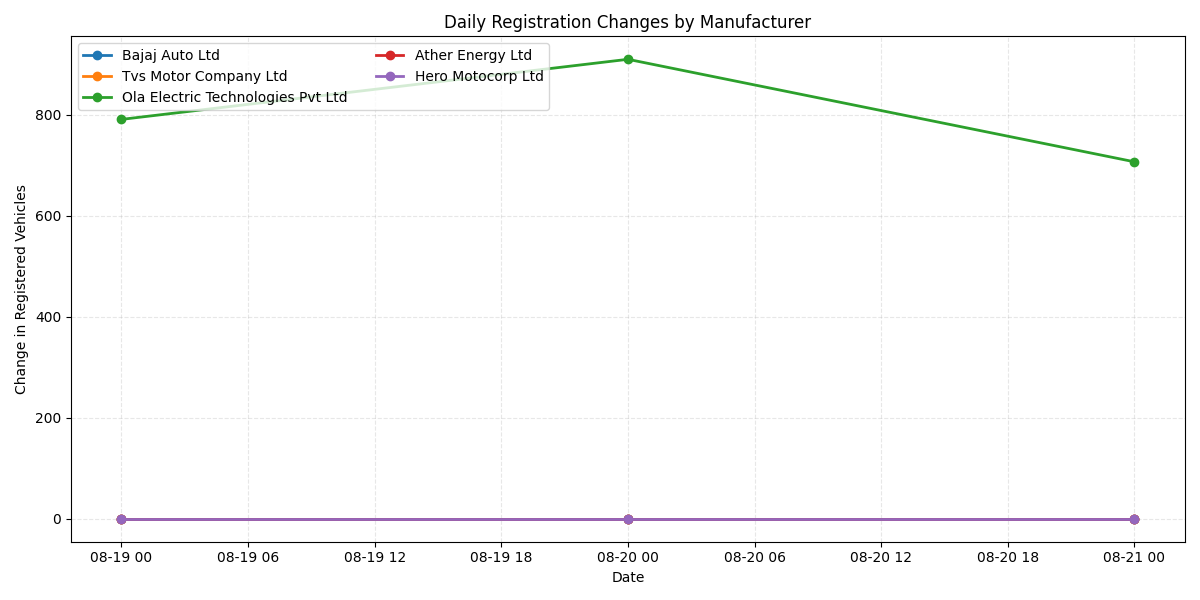
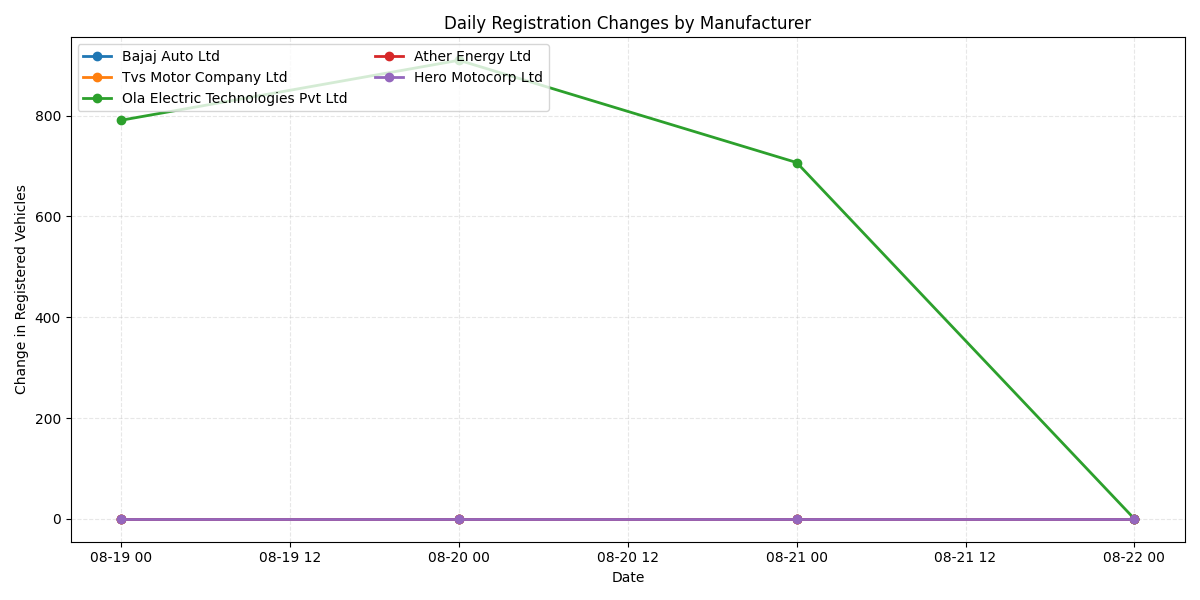
Automated data/docs update Sat Aug 23 04:41:57 UTC 2025

diff --git a/docs/monthly_changes.html b/docs/monthly_changes.html
@@ -2,6 +2,6 @@
 <head><meta charset="utf-8" /></head>
 <body>
     <div>                        <script type="text/javascript">window.PlotlyConfig = {MathJaxConfig: 'local'};</script>
[2 lines of base64/hex data omitted]
 </body>
 </html>

diff --git a/docs/daily_changes.html b/docs/daily_changes.html
@@ -2,6 +2,6 @@
 <head><meta charset="utf-8" /></head>
 <body>
     <div>                        <script type="text/javascript">window.PlotlyConfig = {MathJaxConfig: 'local'};</script>
-        <script charset="utf-8" src="https://cdn.plot.ly/plotly-3.1.0.min.js" integrity="sha256-Ei4740bWZhaUTQuD6q9yQlgVCMPBz6CZWhevDYPv93A=" crossorigin="anonymous"></script>                <div id="94f2916d-dba3-4cae-affe-7ff9773ca47b" class="plotly-graph-div" style="height:100%; width:100%;"></div>            <script type="text/javascript">                window.PLOTLYENV=window.PLOTLYENV || {};                                if (document.getElementById("94f2916d-dba3-4cae-affe-7ff9773ca47b")) {                    Plotly.newPlot(                        "94f2916d-dba3-4cae-affe-7ff9773ca47b",                        [{"customdata":{"dtype":"f8","bdata":"AAAAAAAA+H8AAAAAAAD4fwAAAAAAAPh\u002f"},"hovertemplate":"%{x|%Y-%m-%d}\u003cbr\u003e%{fullData.name}: \u0394 %{y} (%{customdata}%)\u003cextra\u003e\u003c\u002fextra\u003e","mode":"lines+markers","name":"Bajaj Auto Ltd","x":["2025-08-19T00:00:00.000000000","2025-08-20T00:00:00.000000000","2025-08-21T00:00:00.000000000"],"y":{"dtype":"i1","bdata":"AAAA"},"type":"scatter"},{"customdata":{"dtype":"f8","bdata":"AAAAAAAA+H8AAAAAAAD4fwAAAAAAAPh\u002f"},"hovertemplate":"%{x|%Y-%m-%d}\u003cbr\u003e%{fullData.name}: \u0394 %{y} (%{customdata}%)\u003cextra\u003e\u003c\u002fextra\u003e","mode":"lines+markers","name":"Tvs Motor Company Ltd","x":["2025-08-19T00:00:00.000000000","2025-08-20T00:00:00.000000000","2025-08-21T00:00:00.000000000"],"y":{"dtype":"i1","bdata":"AAAA"},"type":"scatter"},{"customdata":{"dtype":"f8","bdata":"AAAAAAAA+H8UrkfhehQuQI\u002fC9ShcTzbA"},"hovertemplate":"%{x|%Y-%m-%d}\u003cbr\u003e%{fullData.name}: \u0394 %{y} (%{customdata}%)\u003cextra\u003e\u003c\u002fextra\u003e","mode":"lines+markers","name":"Ola Electric Technologies Pvt Ltd","x":["2025-08-19T00:00:00.000000000","2025-08-20T00:00:00.000000000","2025-08-21T00:00:00.000000000"],"y":{"dtype":"f8","bdata":"AAAAAAC4iEAAAAAAAHCMQAAAAAAAGIZA"},"type":"scatter"},{"customdata":{"dtype":"f8","bdata":"AAAAAAAA+H8AAAAAAAD4fwAAAAAAAPh\u002f"},"hovertemplate":"%{x|%Y-%m-%d}\u003cbr\u003e%{fullData.name}: \u0394 %{y} (%{customdata}%)\u003cextra\u003e\u003c\u002fextra\u003e","mode":"lines+markers","name":"Ather Energy Ltd","x":["2025-08-19T00:00:00.000000000","2025-08-20T00:00:00.000000000","2025-08-21T00:00:00.000000000"],"y":{"dtype":"i1","bdata":"AAAA"},"type":"scatter"},{"customdata":{"dtype":"f8","bdata":"AAAAAAAA+H8AAAAAAAD4fwAAAAAAAPh\u002f"},"hovertemplate":"%{x|%Y-%m-%d}\u003cbr\u003e%{fullData.name}: \u0394 %{y} (%{customdata}%)\u003cextra\u003e\u003c\u002fextra\u003e","mode":"lines+markers","name":"Hero Motocorp Ltd","x":["2025-08-19T00:00:00.000000000","2025-08-20T00:00:00.000000000","2025-08-21T00:00:00.000000000"],"y":{"dtype":"i1","bdata":"AAAA"},"type":"scatter"}],                        {"legend":{"orientation":"h","x":0,"xanchor":"left","y":1.02,"yanchor":"bottom"},"template":{"data":{"barpolar":[{"marker":{"line":{"color":"white","width":0.5},"pattern":{"fillmode":"overlay","size":10,"solidity":0.2}},"type":"barpolar"}],"bar":[{"error_x":{"color":"#2a3f5f"},"error_y":{"color":"#2a3f5f"},"marker":{"line":{"color":"white","width":0.5},"pattern":{"fillmode":"overlay","size":10,"solidity":0.2}},"type":"bar"}],"carpet":[{"aaxis":{"endlinecolor":"#2a3f5f","gridcolor":"#C8D4E3","linecolor":"#C8D4E3","minorgridcolor":"#C8D4E3","startlinecolor":"#2a3f5f"},"baxis":{"endlinecolor":"#2a3f5f","gridcolor":"#C8D4E3","linecolor":"#C8D4E3","minorgridcolor":"#C8D4E3","startlinecolor":"#2a3f5f"},"type":"carpet"}],"choropleth":[{"colorbar":{"outlinewidth":0,"ticks":""},"type":"choropleth"}],"contourcarpet":[{"colorbar":{"outlinewidth":0,"ticks":""},"type":"contourcarpet"}],"contour":[{"colorbar":{"outlinewidth":0,"ticks":""},"colorscale":[[0.0,"#0d0887"],[0.1111111111111111,"#46039f"],[0.2222222222222222,"#7201a8"],[0.3333333333333333,"#9c179e"],[0.4444444444444444,"#bd3786"],[0.5555555555555556,"#d8576b"],[0.6666666666666666,"#ed7953"],[0.7777777777777778,"#fb9f3a"],[0.8888888888888888,"#fdca26"],[1.0,"#f0f921"]],"type":"contour"}],"heatmap":[{"colorbar":{"outlinewidth":0,"ticks":""},"colorscale":[[0.0,"#0d0887"],[0.1111111111111111,"#46039f"],[0.2222222222222222,"#7201a8"],[0.3333333333333333,"#9c179e"],[0.4444444444444444,"#bd3786"],[0.5555555555555556,"#d8576b"],[0.6666666666666666,"#ed7953"],[0.7777777777777778,"#fb9f3a"],[0.8888888888888888,"#fdca26"],[1.0,"#f0f921"]],"type":"heatmap"}],"histogram2dcontour":[{"colorbar":{"outlinewidth":0,"ticks":""},"colorscale":[[0.0,"#0d0887"],[0.1111111111111111,"#46039f"],[0.2222222222222222,"#7201a8"],[0.3333333333333333,"#9c179e"],[0.4444444444444444,"#bd3786"],[0.5555555555555556,"#d8576b"],[0.6666666666666666,"#ed7953"],[0.7777777777777778,"#fb9f3a"],[0.8888888888888888,"#fdca26"],[1.0,"#f0f921"]],"type":"histogram2dcontour"}],"histogram2d":[{"colorbar":{"outlinewidth":0,"ticks":""},"colorscale":[[0.0,"#0d0887"],[0.1111111111111111,"#46039f"],[0.2222222222222222,"#7201a8"],[0.3333333333333333,"#9c179e"],[0.4444444444444444,"#bd3786"],[0.5555555555555556,"#d8576b"],[0.6666666666666666,"#ed7953"],[0.7777777777777778,"#fb9f3a"],[0.8888888888888888,"#fdca26"],[1.0,"#f0f921"]],"type":"histogram2d"}],"histogram":[{"marker":{"pattern":{"fillmode":"overlay","size":10,"solidity":0.2}},"type":"histogram"}],"mesh3d":[{"colorbar":{"outlinewidth":0,"ticks":""},"type":"mesh3d"}],"parcoords":[{"line":{"colorbar":{"outlinewidth":0,"ticks":""}},"type":"parcoords"}],"pie":[{"automargin":true,"type":"pie"}],"scatter3d":[{"line":{"colorbar":{"outlinewidth":0,"ticks":""}},"marker":{"colorbar":{"outlinewidth":0,"ticks":""}},"type":"scatter3d"}],"scattercarpet":[{"marker":{"colorbar":{"outlinewidth":0,"ticks":""}},"type":"scattercarpet"}],"scattergeo":[{"marker":{"colorbar":{"outlinewidth":0,"ticks":""}},"type":"scattergeo"}],"scattergl":[{"marker":{"colorbar":{"outlinewidth":0,"ticks":""}},"type":"scattergl"}],"scattermapbox":[{"marker":{"colorbar":{"outlinewidth":0,"ticks":""}},"type":"scattermapbox"}],"scattermap":[{"marker":{"colorbar":{"outlinewidth":0,"ticks":""}},"type":"scattermap"}],"scatterpolargl":[{"marker":{"colorbar":{"outlinewidth":0,"ticks":""}},"type":"scatterpolargl"}],"scatterpolar":[{"marker":{"colorbar":{"outlinewidth":0,"ticks":""}},"type":"scatterpolar"}],"scatter":[{"fillpattern":{"fillmode":"overlay","size":10,"solidity":0.2},"type":"scatter"}],"scatterternary":[{"marker":{"colorbar":{"outlinewidth":0,"ticks":""}},"type":"scatterternary"}],"surface":[{"colorbar":{"outlinewidth":0,"ticks":""},"colorscale":[[0.0,"#0d0887"],[0.1111111111111111,"#46039f"],[0.2222222222222222,"#7201a8"],[0.3333333333333333,"#9c179e"],[0.4444444444444444,"#bd3786"],[0.5555555555555556,"#d8576b"],[0.6666666666666666,"#ed7953"],[0.7777777777777778,"#fb9f3a"],[0.8888888888888888,"#fdca26"],[1.0,"#f0f921"]],"type":"surface"}],"table":[{"cells":{"fill":{"color":"#EBF0F8"},"line":{"color":"white"}},"header":{"fill":{"color":"#C8D4E3"},"line":{"color":"white"}},"type":"table"}]},"layout":{"annotationdefaults":{"arrowcolor":"#2a3f5f","arrowhead":0,"arrowwidth":1},"autotypenumbers":"strict","coloraxis":{"colorbar":{"outlinewidth":0,"ticks":""}},"colorscale":{"diverging":[[0,"#8e0152"],[0.1,"#c51b7d"],[0.2,"#de77ae"],[0.3,"#f1b6da"],[0.4,"#fde0ef"],[0.5,"#f7f7f7"],[0.6,"#e6f5d0"],[0.7,"#b8e186"],[0.8,"#7fbc41"],[0.9,"#4d9221"],[1,"#276419"]],"sequential":[[0.0,"#0d0887"],[0.1111111111111111,"#46039f"],[0.2222222222222222,"#7201a8"],[0.3333333333333333,"#9c179e"],[0.4444444444444444,"#bd3786"],[0.5555555555555556,"#d8576b"],[0.6666666666666666,"#ed7953"],[0.7777777777777778,"#fb9f3a"],[0.8888888888888888,"#fdca26"],[1.0,"#f0f921"]],"sequentialminus":[[0.0,"#0d0887"],[0.1111111111111111,"#46039f"],[0.2222222222222222,"#7201a8"],[0.3333333333333333,"#9c179e"],[0.4444444444444444,"#bd3786"],[0.5555555555555556,"#d8576b"],[0.6666666666666666,"#ed7953"],[0.7777777777777778,"#fb9f3a"],[0.8888888888888888,"#fdca26"],[1.0,"#f0f921"]]},"colorway":["#636efa","#EF553B","#00cc96","#ab63fa","#FFA15A","#19d3f3","#FF6692","#B6E880","#FF97FF","#FECB52"],"font":{"color":"#2a3f5f"},"geo":{"bgcolor":"white","lakecolor":"white","landcolor":"white","showlakes":true,"showland":true,"subunitcolor":"#C8D4E3"},"hoverlabel":{"align":"left"},"hovermode":"closest","mapbox":{"style":"light"},"paper_bgcolor":"white","plot_bgcolor":"white","polar":{"angularaxis":{"gridcolor":"#EBF0F8","linecolor":"#EBF0F8","ticks":""},"bgcolor":"white","radialaxis":{"gridcolor":"#EBF0F8","linecolor":"#EBF0F8","ticks":""}},"scene":{"xaxis":{"backgroundcolor":"white","gridcolor":"#DFE8F3","gridwidth":2,"linecolor":"#EBF0F8","showbackground":true,"ticks":"","zerolinecolor":"#EBF0F8"},"yaxis":{"backgroundcolor":"white","gridcolor":"#DFE8F3","gridwidth":2,"linecolor":"#EBF0F8","showbackground":true,"ticks":"","zerolinecolor":"#EBF0F8"},"zaxis":{"backgroundcolor":"white","gridcolor":"#DFE8F3","gridwidth":2,"linecolor":"#EBF0F8","showbackground":true,"ticks":"","zerolinecolor":"#EBF0F8"}},"shapedefaults":{"line":{"color":"#2a3f5f"}},"ternary":{"aaxis":{"gridcolor":"#DFE8F3","linecolor":"#A2B1C6","ticks":""},"baxis":{"gridcolor":"#DFE8F3","linecolor":"#A2B1C6","ticks":""},"bgcolor":"white","caxis":{"gridcolor":"#DFE8F3","linecolor":"#A2B1C6","ticks":""}},"title":{"x":0.05},"xaxis":{"automargin":true,"gridcolor":"#EBF0F8","linecolor":"#EBF0F8","ticks":"","title":{"standoff":15},"zerolinecolor":"#EBF0F8","zerolinewidth":2},"yaxis":{"automargin":true,"gridcolor":"#EBF0F8","linecolor":"#EBF0F8","ticks":"","title":{"standoff":15},"zerolinecolor":"#EBF0F8","zerolinewidth":2}}},"title":{"text":"Daily Registration Changes by Manufacturer"},"xaxis":{"title":{"text":"Date"}},"yaxis":{"title":{"text":"Change in Registered Vehicles"}}},                        {"responsive": true}                    )                };            </script>        </div>
+        <script charset="utf-8" src="https://cdn.plot.ly/plotly-3.1.0.min.js" integrity="sha256-Ei4740bWZhaUTQuD6q9yQlgVCMPBz6CZWhevDYPv93A=" crossorigin="anonymous"></script>                <div id="7935b297-39f6-45e2-b514-853882d5448d" class="plotly-graph-div" style="height:100%; width:100%;"></div>            <script type="text/javascript">                window.PLOTLYENV=window.PLOTLYENV || {};                                if (document.getElementById("7935b297-39f6-45e2-b514-853882d5448d")) {                    Plotly.newPlot(                        "7935b297-39f6-45e2-b514-853882d5448d",                        [{"customdata":{"dtype":"f8","bdata":"AAAAAAAA+H8AAAAAAAD4\u002fwAAAAAAAPj\u002fAAAAAAAA+P8="},"hovertemplate":"%{x|%Y-%m-%d}\u003cbr\u003e%{fullData.name}: \u0394 %{y} (%{customdata}%)\u003cextra\u003e\u003c\u002fextra\u003e","mode":"lines+markers","name":"Bajaj Auto Ltd","x":["2025-08-19T00:00:00.000000000","2025-08-20T00:00:00.000000000","2025-08-21T00:00:00.000000000","2025-08-22T00:00:00.000000000"],"y":{"dtype":"i1","bdata":"AAAAAA=="},"type":"scatter"},{"customdata":{"dtype":"f8","bdata":"AAAAAAAA+H8AAAAAAAD4\u002fwAAAAAAAPj\u002fAAAAAAAA+P8="},"hovertemplate":"%{x|%Y-%m-%d}\u003cbr\u003e%{fullData.name}: \u0394 %{y} (%{customdata}%)\u003cextra\u003e\u003c\u002fextra\u003e","mode":"lines+markers","name":"Tvs Motor Company Ltd","x":["2025-08-19T00:00:00.000000000","2025-08-20T00:00:00.000000000","2025-08-21T00:00:00.000000000","2025-08-22T00:00:00.000000000"],"y":{"dtype":"i1","bdata":"AAAAAA=="},"type":"scatter"},{"customdata":{"dtype":"f8","bdata":"AAAAAAAA+H8UrkfhehQuQI\u002fC9ShcTzbAAAAAAAAAWcA="},"hovertemplate":"%{x|%Y-%m-%d}\u003cbr\u003e%{fullData.name}: \u0394 %{y} (%{customdata}%)\u003cextra\u003e\u003c\u002fextra\u003e","mode":"lines+markers","name":"Ola Electric Technologies Pvt Ltd","x":["2025-08-19T00:00:00.000000000","2025-08-20T00:00:00.000000000","2025-08-21T00:00:00.000000000","2025-08-22T00:00:00.000000000"],"y":{"dtype":"f8","bdata":"AAAAAAC4iEAAAAAAAHCMQAAAAAAAGIZAAAAAAAAAAAA="},"type":"scatter"},{"customdata":{"dtype":"f8","bdata":"AAAAAAAA+H8AAAAAAAD4\u002fwAAAAAAAPj\u002fAAAAAAAA+P8="},"hovertemplate":"%{x|%Y-%m-%d}\u003cbr\u003e%{fullData.name}: \u0394 %{y} (%{customdata}%)\u003cextra\u003e\u003c\u002fextra\u003e","mode":"lines+markers","name":"Ather Energy Ltd","x":["2025-08-19T00:00:00.000000000","2025-08-20T00:00:00.000000000","2025-08-21T00:00:00.000000000","2025-08-22T00:00:00.000000000"],"y":{"dtype":"i1","bdata":"AAAAAA=="},"type":"scatter"},{"customdata":{"dtype":"f8","bdata":"AAAAAAAA+H8AAAAAAAD4\u002fwAAAAAAAPj\u002fAAAAAAAA+P8="},"hovertemplate":"%{x|%Y-%m-%d}\u003cbr\u003e%{fullData.name}: \u0394 %{y} (%{customdata}%)\u003cextra\u003e\u003c\u002fextra\u003e","mode":"lines+markers","name":"Hero Motocorp Ltd","x":["2025-08-19T00:00:00.000000000","2025-08-20T00:00:00.000000000","2025-08-21T00:00:00.000000000","2025-08-22T00:00:00.000000000"],"y":{"dtype":"i1","bdata":"AAAAAA=="},"type":"scatter"}],                        {"legend":{"orientation":"h","x":0,"xanchor":"left","y":1.02,"yanchor":"bottom"},"template":{"data":{"barpolar":[{"marker":{"line":{"color":"white","width":0.5},"pattern":{"fillmode":"overlay","size":10,"solidity":0.2}},"type":"barpolar"}],"bar":[{"error_x":{"color":"#2a3f5f"},"error_y":{"color":"#2a3f5f"},"marker":{"line":{"color":"white","width":0.5},"pattern":{"fillmode":"overlay","size":10,"solidity":0.2}},"type":"bar"}],"carpet":[{"aaxis":{"endlinecolor":"#2a3f5f","gridcolor":"#C8D4E3","linecolor":"#C8D4E3","minorgridcolor":"#C8D4E3","startlinecolor":"#2a3f5f"},"baxis":{"endlinecolor":"#2a3f5f","gridcolor":"#C8D4E3","linecolor":"#C8D4E3","minorgridcolor":"#C8D4E3","startlinecolor":"#2a3f5f"},"type":"carpet"}],"choropleth":[{"colorbar":{"outlinewidth":0,"ticks":""},"type":"choropleth"}],"contourcarpet":[{"colorbar":{"outlinewidth":0,"ticks":""},"type":"contourcarpet"}],"contour":[{"colorbar":{"outlinewidth":0,"ticks":""},"colorscale":[[0.0,"#0d0887"],[0.1111111111111111,"#46039f"],[0.2222222222222222,"#7201a8"],[0.3333333333333333,"#9c179e"],[0.4444444444444444,"#bd3786"],[0.5555555555555556,"#d8576b"],[0.6666666666666666,"#ed7953"],[0.7777777777777778,"#fb9f3a"],[0.8888888888888888,"#fdca26"],[1.0,"#f0f921"]],"type":"contour"}],"heatmap":[{"colorbar":{"outlinewidth":0,"ticks":""},"colorscale":[[0.0,"#0d0887"],[0.1111111111111111,"#46039f"],[0.2222222222222222,"#7201a8"],[0.3333333333333333,"#9c179e"],[0.4444444444444444,"#bd3786"],[0.5555555555555556,"#d8576b"],[0.6666666666666666,"#ed7953"],[0.7777777777777778,"#fb9f3a"],[0.8888888888888888,"#fdca26"],[1.0,"#f0f921"]],"type":"heatmap"}],"histogram2dcontour":[{"colorbar":{"outlinewidth":0,"ticks":""},"colorscale":[[0.0,"#0d0887"],[0.1111111111111111,"#46039f"],[0.2222222222222222,"#7201a8"],[0.3333333333333333,"#9c179e"],[0.4444444444444444,"#bd3786"],[0.5555555555555556,"#d8576b"],[0.6666666666666666,"#ed7953"],[0.7777777777777778,"#fb9f3a"],[0.8888888888888888,"#fdca26"],[1.0,"#f0f921"]],"type":"histogram2dcontour"}],"histogram2d":[{"colorbar":{"outlinewidth":0,"ticks":""},"colorscale":[[0.0,"#0d0887"],[0.1111111111111111,"#46039f"],[0.2222222222222222,"#7201a8"],[0.3333333333333333,"#9c179e"],[0.4444444444444444,"#bd3786"],[0.5555555555555556,"#d8576b"],[0.6666666666666666,"#ed7953"],[0.7777777777777778,"#fb9f3a"],[0.8888888888888888,"#fdca26"],[1.0,"#f0f921"]],"type":"histogram2d"}],"histogram":[{"marker":{"pattern":{"fillmode":"overlay","size":10,"solidity":0.2}},"type":"histogram"}],"mesh3d":[{"colorbar":{"outlinewidth":0,"ticks":""},"type":"mesh3d"}],"parcoords":[{"line":{"colorbar":{"outlinewidth":0,"ticks":""}},"type":"parcoords"}],"pie":[{"automargin":true,"type":"pie"}],"scatter3d":[{"line":{"colorbar":{"outlinewidth":0,"ticks":""}},"marker":{"colorbar":{"outlinewidth":0,"ticks":""}},"type":"scatter3d"}],"scattercarpet":[{"marker":{"colorbar":{"outlinewidth":0,"ticks":""}},"type":"scattercarpet"}],"scattergeo":[{"marker":{"colorbar":{"outlinewidth":0,"ticks":""}},"type":"scattergeo"}],"scattergl":[{"marker":{"colorbar":{"outlinewidth":0,"ticks":""}},"type":"scattergl"}],"scattermapbox":[{"marker":{"colorbar":{"outlinewidth":0,"ticks":""}},"type":"scattermapbox"}],"scattermap":[{"marker":{"colorbar":{"outlinewidth":0,"ticks":""}},"type":"scattermap"}],"scatterpolargl":[{"marker":{"colorbar":{"outlinewidth":0,"ticks":""}},"type":"scatterpolargl"}],"scatterpolar":[{"marker":{"colorbar":{"outlinewidth":0,"ticks":""}},"type":"scatterpolar"}],"scatter":[{"fillpattern":{"fillmode":"overlay","size":10,"solidity":0.2},"type":"scatter"}],"scatterternary":[{"marker":{"colorbar":{"outlinewidth":0,"ticks":""}},"type":"scatterternary"}],"surface":[{"colorbar":{"outlinewidth":0,"ticks":""},"colorscale":[[0.0,"#0d0887"],[0.1111111111111111,"#46039f"],[0.2222222222222222,"#7201a8"],[0.3333333333333333,"#9c179e"],[0.4444444444444444,"#bd3786"],[0.5555555555555556,"#d8576b"],[0.6666666666666666,"#ed7953"],[0.7777777777777778,"#fb9f3a"],[0.8888888888888888,"#fdca26"],[1.0,"#f0f921"]],"type":"surface"}],"table":[{"cells":{"fill":{"color":"#EBF0F8"},"line":{"color":"white"}},"header":{"fill":{"color":"#C8D4E3"},"line":{"color":"white"}},"type":"table"}]},"layout":{"annotationdefaults":{"arrowcolor":"#2a3f5f","arrowhead":0,"arrowwidth":1},"autotypenumbers":"strict","coloraxis":{"colorbar":{"outlinewidth":0,"ticks":""}},"colorscale":{"diverging":[[0,"#8e0152"],[0.1,"#c51b7d"],[0.2,"#de77ae"],[0.3,"#f1b6da"],[0.4,"#fde0ef"],[0.5,"#f7f7f7"],[0.6,"#e6f5d0"],[0.7,"#b8e186"],[0.8,"#7fbc41"],[0.9,"#4d9221"],[1,"#276419"]],"sequential":[[0.0,"#0d0887"],[0.1111111111111111,"#46039f"],[0.2222222222222222,"#7201a8"],[0.3333333333333333,"#9c179e"],[0.4444444444444444,"#bd3786"],[0.5555555555555556,"#d8576b"],[0.6666666666666666,"#ed7953"],[0.7777777777777778,"#fb9f3a"],[0.8888888888888888,"#fdca26"],[1.0,"#f0f921"]],"sequentialminus":[[0.0,"#0d0887"],[0.1111111111111111,"#46039f"],[0.2222222222222222,"#7201a8"],[0.3333333333333333,"#9c179e"],[0.4444444444444444,"#bd3786"],[0.5555555555555556,"#d8576b"],[0.6666666666666666,"#ed7953"],[0.7777777777777778,"#fb9f3a"],[0.8888888888888888,"#fdca26"],[1.0,"#f0f921"]]},"colorway":["#636efa","#EF553B","#00cc96","#ab63fa","#FFA15A","#19d3f3","#FF6692","#B6E880","#FF97FF","#FECB52"],"font":{"color":"#2a3f5f"},"geo":{"bgcolor":"white","lakecolor":"white","landcolor":"white","showlakes":true,"showland":true,"subunitcolor":"#C8D4E3"},"hoverlabel":{"align":"left"},"hovermode":"closest","mapbox":{"style":"light"},"paper_bgcolor":"white","plot_bgcolor":"white","polar":{"angularaxis":{"gridcolor":"#EBF0F8","linecolor":"#EBF0F8","ticks":""},"bgcolor":"white","radialaxis":{"gridcolor":"#EBF0F8","linecolor":"#EBF0F8","ticks":""}},"scene":{"xaxis":{"backgroundcolor":"white","gridcolor":"#DFE8F3","gridwidth":2,"linecolor":"#EBF0F8","showbackground":true,"ticks":"","zerolinecolor":"#EBF0F8"},"yaxis":{"backgroundcolor":"white","gridcolor":"#DFE8F3","gridwidth":2,"linecolor":"#EBF0F8","showbackground":true,"ticks":"","zerolinecolor":"#EBF0F8"},"zaxis":{"backgroundcolor":"white","gridcolor":"#DFE8F3","gridwidth":2,"linecolor":"#EBF0F8","showbackground":true,"ticks":"","zerolinecolor":"#EBF0F8"}},"shapedefaults":{"line":{"color":"#2a3f5f"}},"ternary":{"aaxis":{"gridcolor":"#DFE8F3","linecolor":"#A2B1C6","ticks":""},"baxis":{"gridcolor":"#DFE8F3","linecolor":"#A2B1C6","ticks":""},"bgcolor":"white","caxis":{"gridcolor":"#DFE8F3","linecolor":"#A2B1C6","ticks":""}},"title":{"x":0.05},"xaxis":{"automargin":true,"gridcolor":"#EBF0F8","linecolor":"#EBF0F8","ticks":"","title":{"standoff":15},"zerolinecolor":"#EBF0F8","zerolinewidth":2},"yaxis":{"automargin":true,"gridcolor":"#EBF0F8","linecolor":"#EBF0F8","ticks":"","title":{"standoff":15},"zerolinecolor":"#EBF0F8","zerolinewidth":2}}},"title":{"text":"Daily Registration Changes by Manufacturer"},"xaxis":{"title":{"text":"Date"}},"yaxis":{"title":{"text":"Change in Registered Vehicles"}}},                        {"responsive": true}                    )                };            </script>        </div>
 </body>
 </html>
